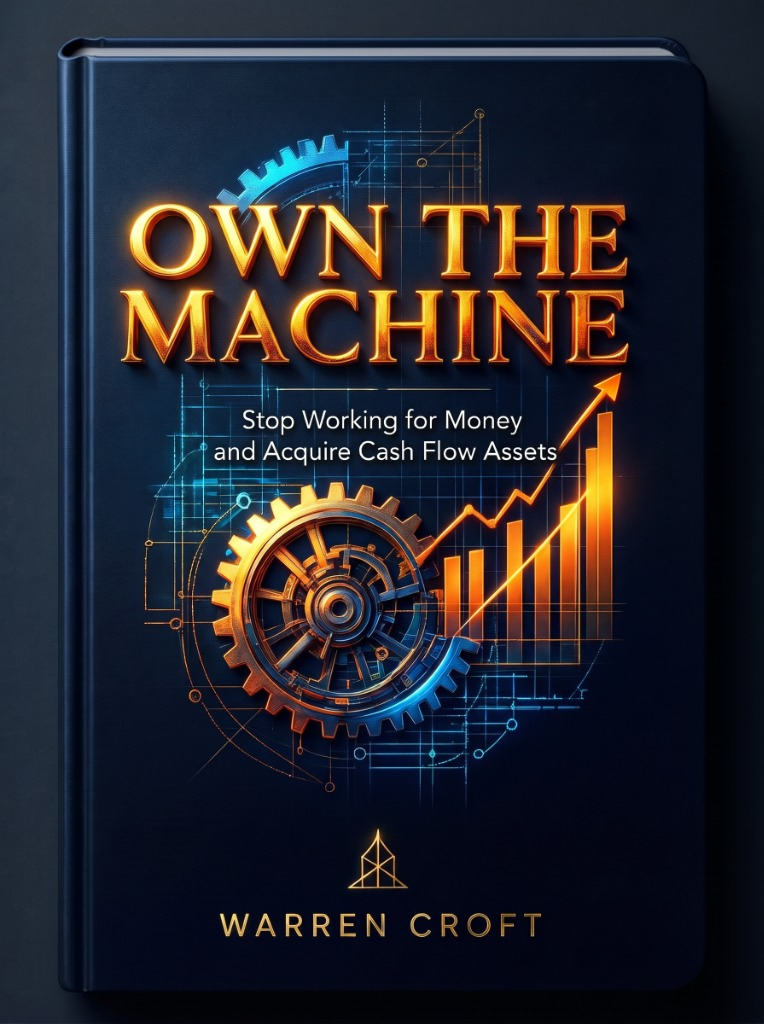
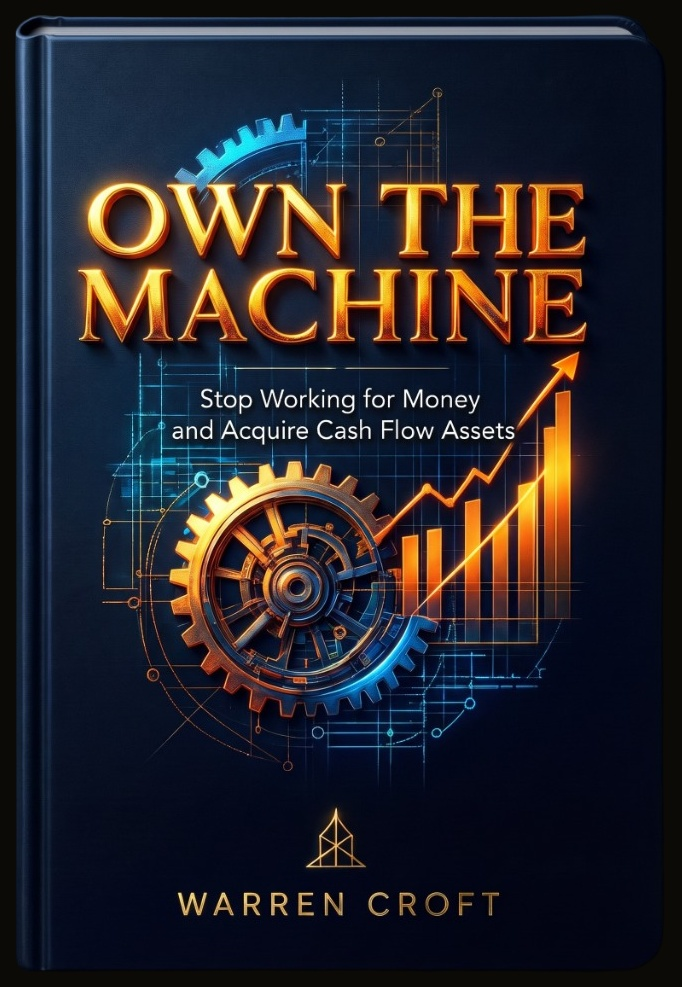
feat: remove background from book cover, generate transparent PNG with 3D drop shadow

diff --git a/index.html b/index.html
@@ -251,11 +251,11 @@
         <span>BEST VALUE · MOST RECOMMENDED</span>
       </p>
 
-      <!-- Book Cover Image Display (Frankie Finance Style) -->
-      <div class="my-6 max-w-[280px] sm:max-w-[320px] w-full">
-        <img src="assets/book-cover.jpg" 
+      <!-- Book Cover Image Display (Transparent 3D Cutout with Realistic Silhouette Shadow) -->
+      <div class="my-6 max-w-[280px] sm:max-w-[320px] w-full flex items-center justify-center">
+        <img src="assets/book-cover.png" 
              alt="OWN THE MACHINE by Warren Croft — Stop Working for Money and Acquire Cash Flow Assets" 
-             class="w-full h-auto object-cover rounded shadow-frankie-cover border border-storefront-border-card"
+             class="w-full h-auto object-contain filter drop-shadow-[0_22px_35px_rgba(0,0,0,0.85)] hover:scale-[1.02] transition-transform duration-300"
              loading="eager">
       </div>
 
@@ -988,7 +988,7 @@
   <div id="sticky-mobile-cta" class="fixed bottom-0 left-0 right-0 z-50 bg-[#0B0A07]/95 border-t border-storefront-border-card shadow-2xl backdrop-blur-md transform translate-y-full transition-transform duration-300 md:hidden safe-bottom-padding">
     <div class="px-4 py-3 flex items-center justify-between gap-3">
       <div class="flex items-center gap-2.5">
-        <img src="assets/book-cover.jpg" alt="Own the Machine thumbnail" class="w-8 h-11 object-cover rounded shadow border border-storefront-border-card flex-shrink-0">
+        <img src="assets/book-cover.png" alt="Own the Machine thumbnail" class="w-8 h-11 object-contain filter drop-shadow-[0_2px_6px_rgba(0,0,0,0.7)] flex-shrink-0">
         <div class="flex flex-col">
           <span class="font-cinzel text-[11px] font-bold text-storefront-accent-light tracking-wider uppercase leading-none">
             OWN THE MACHINE
